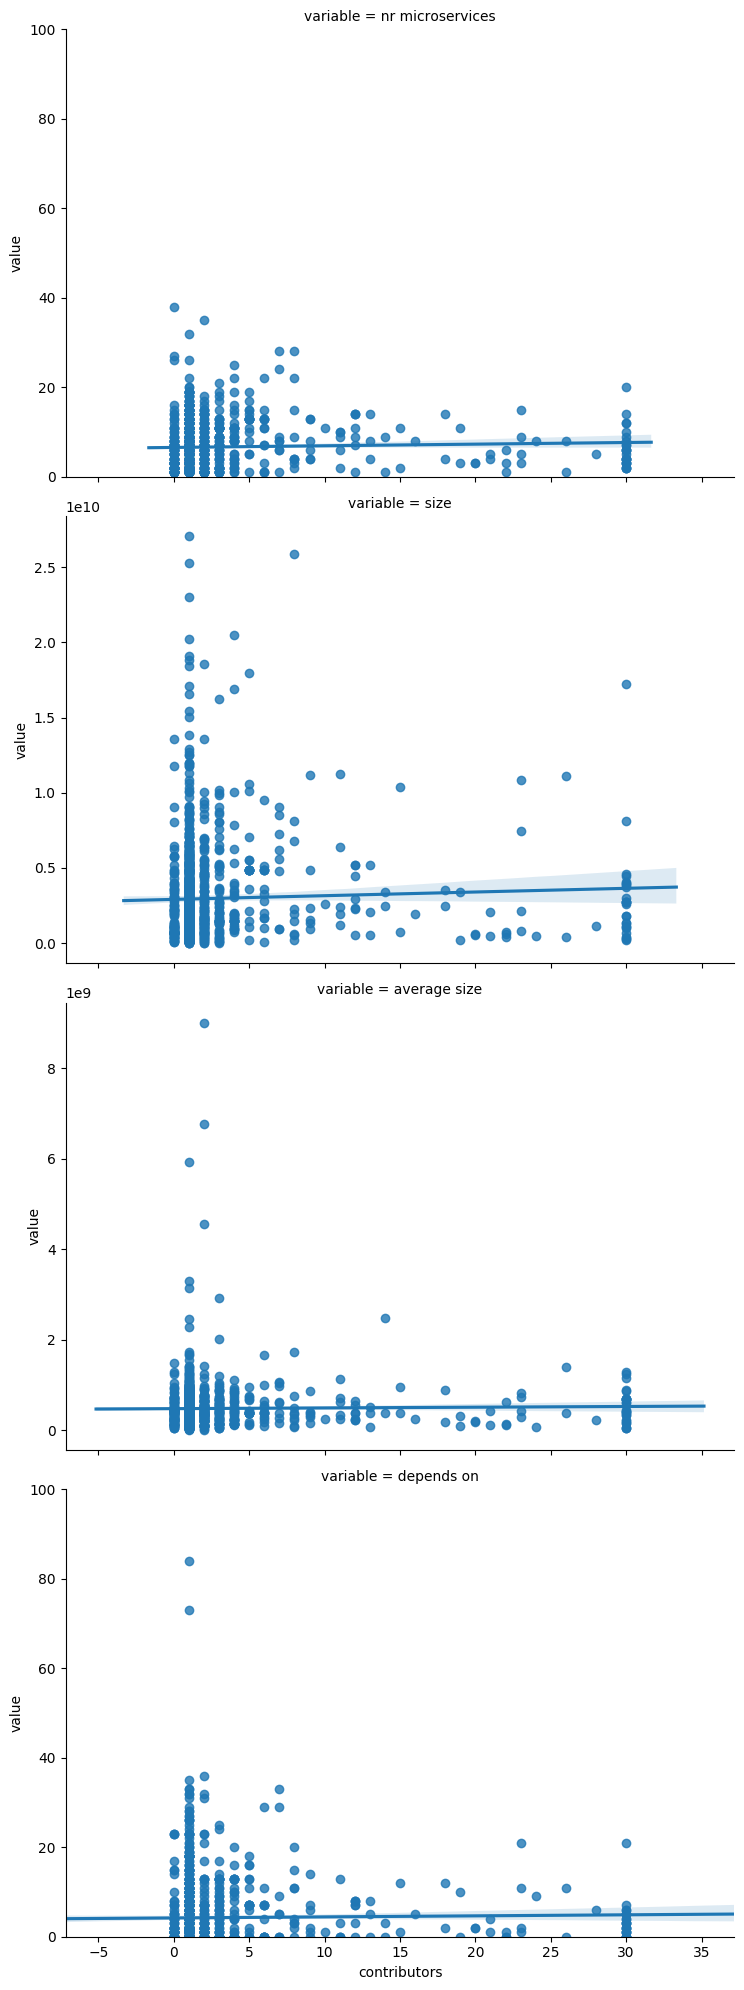
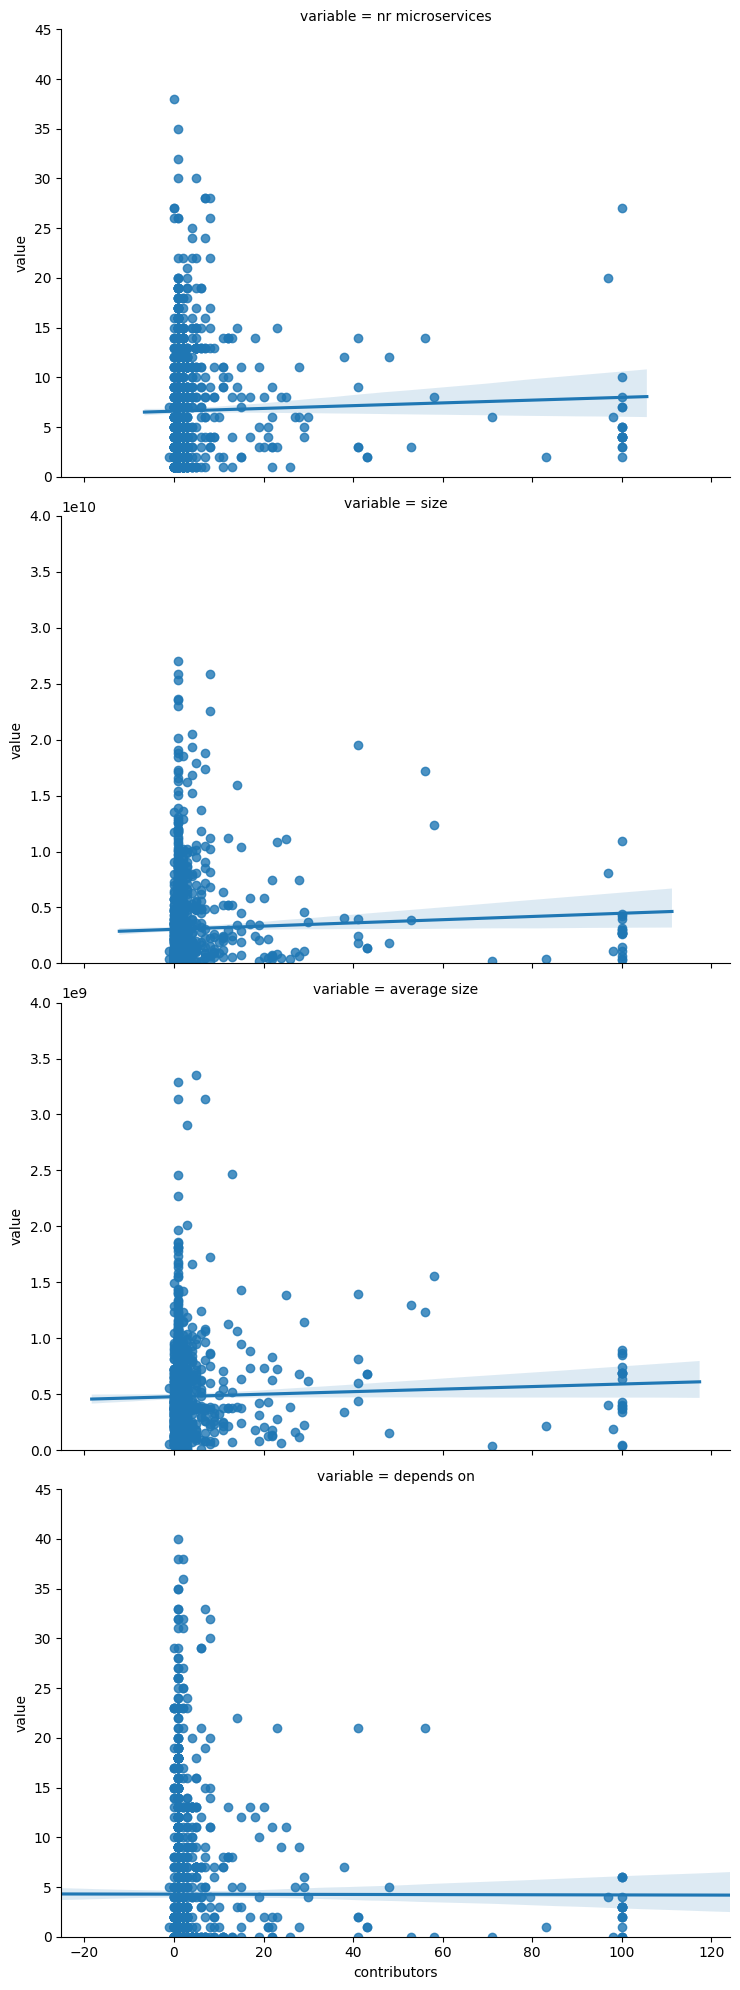
updated plots, created seperate readme for docker and inserted result plots

diff --git a/Python/Docker/plotting.py b/Python/Docker/plotting.py
@@ -12,17 +12,8 @@ for folder in os.listdir('repositories'):
 
     size = 0
     for microservice in project.microservices:
-        # this is only temporal, can be deleted once all was run
-        if microservice['size'] is not None:
-            size += microservice['size']
-        else:
-            size += 0
-
-    # this is only temporal, can be delted once all was run
-    if len(project.microservices) is not 0:
+        size += microservice['size']
         nr_microservices = len(project.microservices)
-    else:
-        nr_microservices = 1
 
     projects.append({
         'name': project.name,
@@ -33,69 +24,164 @@ for folder in os.listdir('repositories'):
         'size': size,
         'average size': size/nr_microservices,
         'depends on': project.depends_on,
-        'contributors': len(project.contributors),
-        'language': project.language
+        'contributors': project.contributors,
+        'language': project.language,
+        'commits': project.commits
     })
-
 
 
 '''
 Last updated
 '''
 
-df = pd.DataFrame(projects).head(1200)
+df = pd.DataFrame(projects)
 df['year'] = df['updated'].dt.year
 df = pd.melt(df, id_vars=['year'], value_vars=['nr microservices', 'size', 'average size', 'depends on'])
 g = sns.FacetGrid(df, row='variable', sharey=False, aspect=1.5)
 g.map(sns.boxplot, 'year', 'value', palette="Set3")
 
+axes = g.axes
+axes[0][0].set_ylim(0, 45)
+axes[1][0].set_ylim(0, 20000000000)
+axes[2][0].set_ylim(0, 2000000000)
+axes[3][0].set_ylim(0, 45)
+
 g.savefig('results/last_updated.png')
+
+fig, ax = plt.subplots()
+df_last_updated_micro = pd.DataFrame(projects)
+df_last_updated_micro['year'] = df_last_updated_micro['updated'].dt.year
+sns.boxplot(data=df_last_updated_micro, x='year', y='nr microservices', ax=ax, palette="Set3")
+
+fig.savefig('results/last_updated_micro.png')
 
 
 '''
 Influence of language
 '''
-
-df2 = pd.DataFrame(projects).head(1200)
-df2['year'] = df2['updated'].dt.year
+df2_line = pd.DataFrame(projects)
+df2_box = pd.DataFrame(projects)
+df2_box['year'] = df2_box['updated'].dt.year
 # print(df2['language'].value_counts())
-languages = ['JavaScript', 'PHP', 'Java', 'Python']
-df2 = df2[df2['language'].isin(languages)]
-df2 = pd.melt(df2, id_vars=['year', 'language'], value_vars=['nr microservices', 'size', 'average size', 'depends on'])
-g2 = sns.FacetGrid(df2, row='variable', sharey=False, aspect=1.5, legend_out=True)
-g2.map(sns.boxplot, 'year', 'value', 'language', palette="Set3").add_legend()
+languages = ['JavaScript', 'PHP', 'Java', 'Python', 'C#']
+df2_box = df2_box[df2_box['language'].isin(languages)]
+df2_line = df2_line[df2_line['language'].isin(languages)]
 
-g2.savefig('results/language.png')
+df2_box = pd.melt(df2_box, id_vars=['year', 'language'], value_vars=['nr microservices', 'size', 'average size', 'depends on'])
+g2_box = sns.FacetGrid(df2_box, row='variable', sharey=False, aspect=1.5, legend_out=True)
+g2_box.map(sns.boxplot, 'year', 'value', 'language', palette="Set3").add_legend()
+
+df2_line = pd.melt(df2_line, id_vars=['updated', 'language'], value_vars=['nr microservices', 'size', 'average size', 'depends on'])
+g2_line = sns.relplot(x='updated', y='value', data=df2_line, kind='line', hue='language', row='variable', facet_kws={'sharey': False})
+
+axes_line = g2_line.axes
+axes_box = g2_box.axes
+
+axes_line[0][0].set_ylim(0, 25)
+axes_line[1][0].set_ylim(0, 12000000000)
+axes_line[2][0].set_ylim(0, 1200000000)
+axes_line[3][0].set_ylim(0, 25)
+
+axes_box[0][0].set_ylim(0, 25)
+axes_box[1][0].set_ylim(0, 14000000000)
+axes_box[2][0].set_ylim(0, 1400000000)
+axes_box[3][0].set_ylim(0, 30)
+
+g2_box.savefig('results/language_box.png')
+g2_line.savefig('results/language_line.png')
+
+fig, (ax1, ax2) = plt.subplots(2, sharex=True)
+df_last_updated_lang = pd.DataFrame(projects)
+df_last_updated_lang = df_last_updated_lang[df_last_updated_lang['language'].isin(languages)]
+df_last_updated_lang['year'] = df_last_updated_lang['updated'].dt.year
+sns.boxplot(data=df_last_updated_lang, x='year', y='nr microservices', ax=ax1, hue="language", palette="Set3").legend().remove()
+sns.boxplot(data=df_last_updated_lang, x='year', y='depends on', ax=ax2, hue="language", palette="Set3")
+ax1.set_ylim(0, 25)
+ax2.set_ylim(0, 25)
+
+fig.savefig('results/last_updated_lang.png')
 
 
 '''
 Project Duration
 '''
 
-df3 = pd.DataFrame(projects).head(1200)
+df3 = pd.DataFrame(projects)
 df3['duration'] = df3['duration'].dt.days
 df3 = pd.melt(df3, id_vars=['duration'], value_vars=['nr microservices', 'size', 'average size', 'depends on'])
 g3 = sns.lmplot(data=df3, x='duration', y='value', row='variable', sharey=False, palette="Set3", aspect=1.5)
 
 axes = g3.axes
-axes[0][0].set_ylim(0, 100)
-axes[3][0].set_ylim(0, 100)
+axes[0][0].set_ylim(0, 45)
+axes[1][0].set_ylim(0, 40000000000)
+axes[2][0].set_ylim(0, 4000000000)
+axes[3][0].set_ylim(0, 45)
 
 g3.savefig('results/duration.png')
+
+df = pd.DataFrame(projects)
+df['duration'] = df['duration'].dt.days
+fig, ax = plt.subplots()
+sns.regplot(data=df, x='duration', y='average size', ax=ax)
+ax.set_ylim(0, 4000000000)
+
+fig.savefig('results/duration_avg_size.png')
+
 
 '''
 Contributors
 '''
 
-df4 = pd.DataFrame(projects).head(1200)
+df4 = pd.DataFrame(projects)
 df4 = pd.melt(df4, id_vars=['contributors'], value_vars=['nr microservices', 'size', 'average size', 'depends on'])
 g4 = sns.lmplot(data=df4, x='contributors', y='value', row='variable', sharey=False, palette="Set3", aspect=1.5)
 
 axes = g4.axes
-axes[0][0].set_ylim(0, 100)
-axes[3][0].set_ylim(0, 100)
+axes[0][0].set_ylim(0, 45)
+axes[1][0].set_ylim(0, 40000000000)
+axes[2][0].set_ylim(0, 4000000000)
+axes[3][0].set_ylim(0, 45)
 
 g4.savefig('results/contributors.png')
 
 
-plt.show()
+'''
+Commits
+'''
+
+df5 = pd.DataFrame(projects)
+# delete one clear outlier
+df5 = df5[df5['commits'] < 25000]
+
+df5 = pd.melt(df5, id_vars=['commits'], value_vars=['nr microservices', 'size', 'average size', 'depends on'])
+g5 = sns.lmplot(data=df5, x='commits', y='value', row='variable', sharey=False, palette="Set3", aspect=1.5)
+
+axes = g5.axes
+axes[0][0].set_ylim(0, 45)
+axes[1][0].set_ylim(0, 40000000000)
+axes[2][0].set_ylim(0, 4000000000)
+axes[3][0].set_ylim(0, 45)
+
+g5.savefig('results/commits.png')
+
+fig, (ax1, ax2) = plt.subplots(2, sharex=True)
+
+df = pd.DataFrame(projects)
+df = df[df['commits'] < 25000]
+sns.regplot(data=df, x='commits', y='size', ax=ax1)
+sns.regplot(data=df, x='commits', y='depends on', ax=ax2)
+ax1.set_ylim(0, 30000000000)
+ax2.set_ylim(0, 45)
+
+fig.savefig('results/commits_size_deps.png')
+
+
+# nr microservices vs dependencies between them
+df = pd.DataFrame(projects)
+fig, ax = plt.subplots()
+sns.regplot(data=df, x='nr microservices', y='depends on', ax=ax)
+
+fig.savefig('results/mirco_vs_deps.png')
+
+
+# plt.show()

diff --git a/Python/Docker/repo-fetching.py b/Python/Docker/repo-fetching.py
@@ -1,4 +1,5 @@
 import pickle
+import shutil
 import tarfile
 import time
 import os
@@ -6,8 +7,7 @@ import requests
 import wget
 from datetime import datetime
 
-from analysis import run_analysis
-from project import *
+from project import Project
 
 '''
 for more infos about the github api: https://developer.github.com/v3/
@@ -20,6 +20,26 @@ pages_to_query = int(repos_to_fetch / per_page)
 API_KEY = '741eb4f12ce9d6cb13e319356b9d1da6d4893e56'
 session = requests.Session()
 session.auth = ('bugii', API_KEY)
+
+
+def get_stats(repo):
+    res = session.get(repo + "/stats/contributors")
+    if res.status_code == 200:
+        res_json = res.json()
+        contributors = 0
+        commits = 0
+        for contributor in res_json:
+            contributors += 1
+            commits += contributor['total']
+        print('got stats for', repo)
+        return contributors, commits
+
+    elif res.status_code == 202:
+        time.sleep(10)
+        return get_stats(repo)
+
+    print('failed for', repo)
+    return -1, -1
 
 
 def search_github():
@@ -69,13 +89,14 @@ def search_github():
                 print('lang:', language)
 
                 # get the contributors
-                contributors = session.get(repo['contributors_url']).json()
-                print('contributors:', len(contributors))
+                contributors, commits = get_stats(repo_url)
+                print('contributors:', contributors)
+                print('commits:', commits)
                 print('-----------------------------')
 
                 # create object
                 project = Project(name=name, url=repo_url, created=created_at, last_updated=last_updated_at,
-                                  language=language, contributors=contributors)
+                                  language=language, contributors=contributors, commits=commits)
 
                 # download the repo and unzip it, delete compressed file afterwards
                 archive_path = wget.download(repo_url + '/tarball', 'repositories')
@@ -89,4 +110,8 @@ def search_github():
 
 
 if __name__ == '__main__':
+
+    if not os.path.exists('repositories'):
+        os.mkdir('repositories')
+
     search_github()

diff --git a/Python/Docker/get_services_size.py b/Python/Docker/get_services_size.py
@@ -77,7 +77,7 @@ def get_microservice_size(details, project_dir_lvl2, project_dir_lvl1):
             TypeError, AttributeError, requests.exceptions.HTTPError, requests.exceptions.ReadTimeout,
             FileNotFoundError) as e:
         print('Deleted:', project_dir_lvl2, e)
-        # delete entire project if errors occured
+        # delete entire project if errors occurred
         shutil.rmtree(project_dir_lvl1)
         return -1
 
@@ -174,4 +174,5 @@ if __name__ == '__main__':
             print('Microservices:', obj.microservices)
             print('Dependencies:', obj.depends_on)
             print('Language:', obj.language)
-            print('Contributors:', len(obj.contributors))
+            print('Contributors:', obj.contributors)
+            print('Commits:', obj.commits)

diff --git a/Python/Docker/project.py b/Python/Docker/project.py
@@ -1,6 +1,6 @@
 class Project:
 
-    def __init__(self, name, url, created, last_updated, language, contributors):
+    def __init__(self, name, url, created, last_updated, language, contributors, commits):
         self.name = name
         self.url = url
         self.created = created
@@ -9,6 +9,7 @@ class Project:
         self.depends_on = 0
         self.language = language
         self.contributors = contributors
+        self.commits = commits
 
     def __str__(self):
         return self.name

diff --git a/Python/Docker/README.md b/Python/Docker/README.md
@@ -1,0 +1,48 @@
+## How to run
+
+### Fetching projects from Github
+
+Note: Before running the script make sure that you have all the dependencies installed. Do:
+
+```shell script
+pip install -r requirements.txt
+```
+
+The data can be fetched using the following command:
+
+```shell script
+python repo_fetching.py
+```
+
+Note, that you change the API_KEY variable to one of your own Github API keys before running the script and that
+you have all dependencies installed specified in the requirements.txt file.
+
+### Analyzing microservices
+
+If you don't have enough space on your hard disk or in case you want to use an external disk, follow the next step.
+On Ubuntu, the default location for storing docker images can be changed by creating the following file:
+/etc/docker/deamon.json. Put into the file:
+
+```json
+{
+    "data-root": "/mnt/hdd/docker"
+}
+```
+
+After that, you can run the analysis with the following command:
+
+```shell script
+python get_services_size.py
+```
+
+Note: In order to be able to run the script, it may be required to allow docker to run commands as a non-root user. In
+Linux this is done via the following commands:
+
+```shell script
+sudo groupadd docker
+sudo usermod -aG docker $USER
+```
+
+### Plotting
+
+The plotting.py file contains the code we used to plot our results. Feel free to adjust it to your needs.
